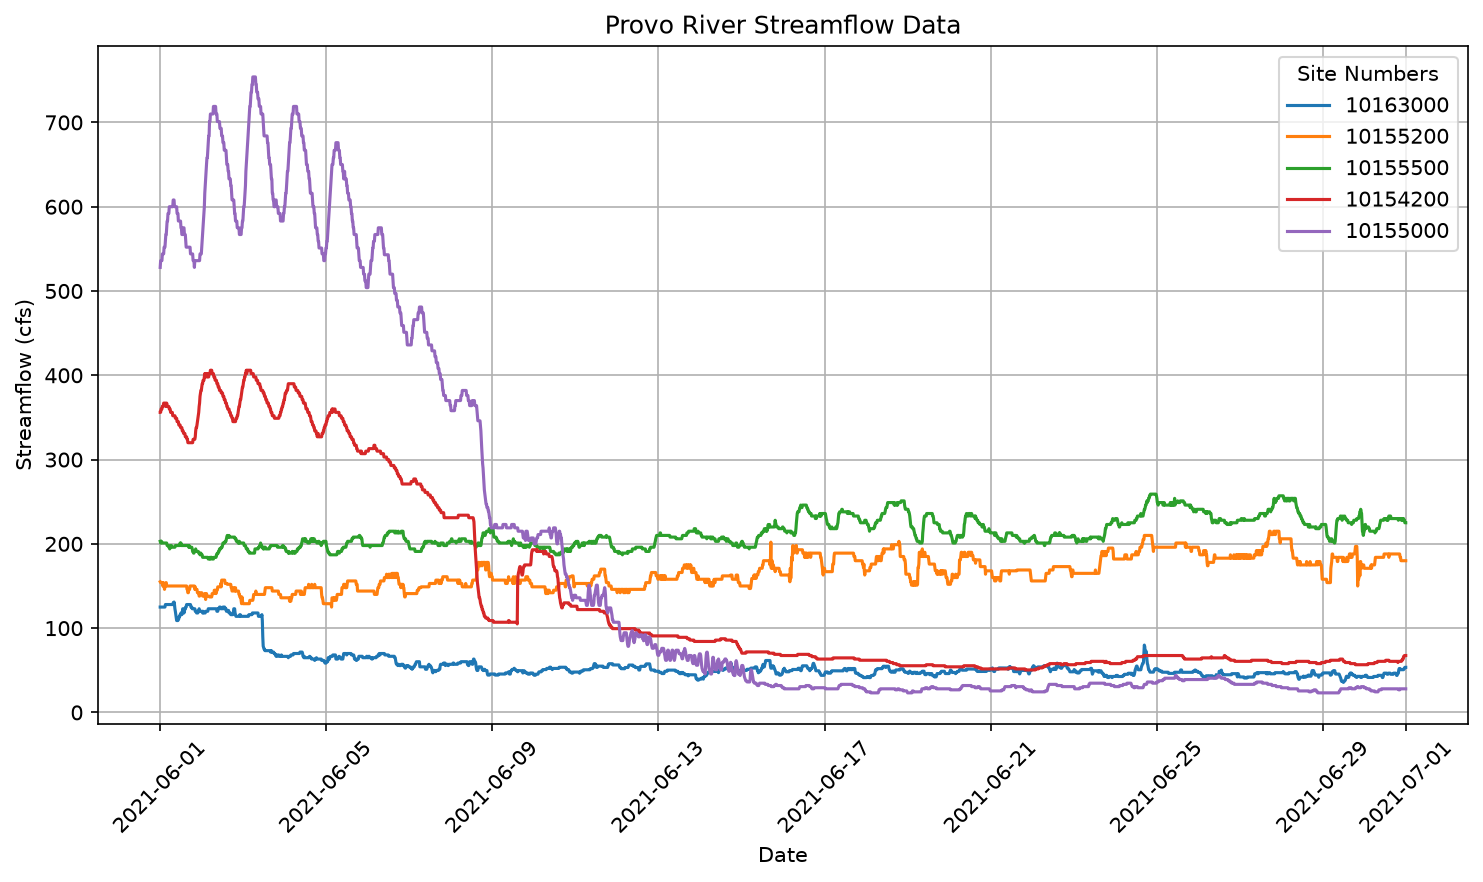
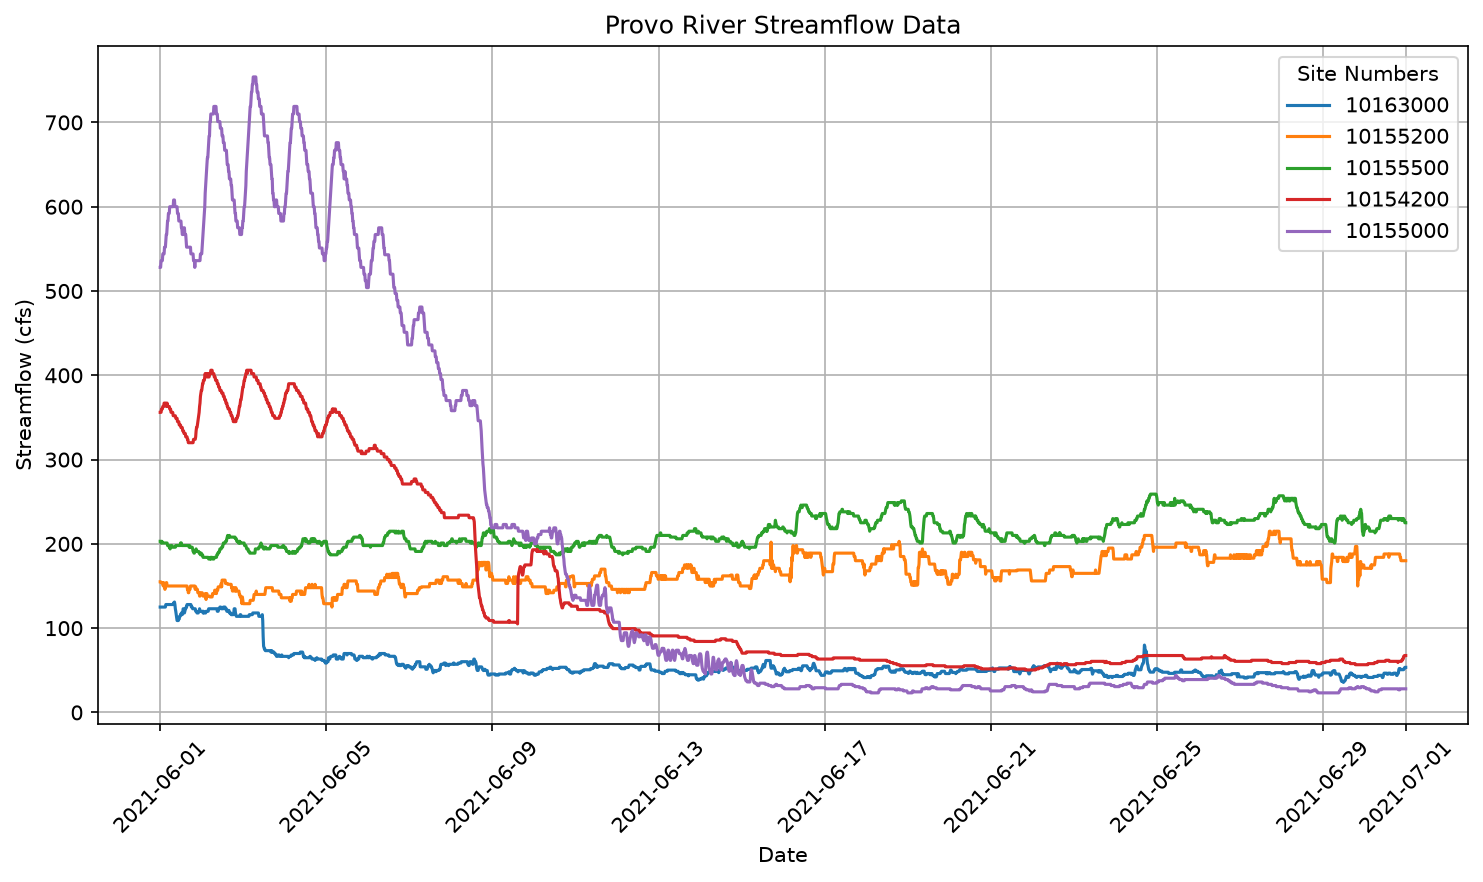
Add summary report

diff --git a/streamflow.py b/streamflow.py
@@ -1,4 +1,5 @@
 # -*- coding: utf-8 -*-
+import csv
 import numpy as np
 import matplotlib.pyplot as plt
 
@@ -12,8 +13,8 @@ def load_streamflow(filename):
         skip_header=1
     )
 
-    dates = streamflow_data[1:, 0].astype("datetime64")
-    flows = streamflow_data[1:, 1:].astype(float)
+    dates = streamflow_data[:, 0].astype("datetime64")
+    flows = streamflow_data[:, 1:].astype(float)
     return dates, flows
 
 
@@ -34,8 +35,39 @@ def plot_streamflow(dates, flows, sites):
     plt.show()
 
 
+def summarize(dates, flows, sites):
+    """Print and save the maximum, minimum, and average flow for each gauge."""
+    header = (
+        f"{'Gauge':<12}{'Max (cfs)':>10}   {'Date of max':<16} "
+        f"{'Min (cfs)':>10} {'Avg (cfs)':>10}"
+    )
+    print(header)
+
+    rows = []
+    for column, site in enumerate(sites):
+        gauge_flows = flows[:, column]
+        max_index = np.argmax(gauge_flows)
+        date_of_max = str(dates[max_index])
+        date_of_max = date_of_max.replace("T", " ")[:16]
+        maximum = np.max(gauge_flows)
+        minimum = np.min(gauge_flows)
+        average = np.mean(gauge_flows)
+
+        print(
+            f"{site:<12}{maximum:>10.1f}   {date_of_max:<16} "
+            f"{minimum:>10.1f} {average:>10.1f}"
+        )
+        rows.append((site, f"{maximum:.1f}", date_of_max, f"{minimum:.1f}", f"{average:.1f}"))
+
+    with open("streamflow_summary.csv", "w", newline="", encoding="utf-8") as summary_file:
+        writer = csv.writer(summary_file)
+        writer.writerow(["Gauge", "Max (cfs)", "Date of max", "Min (cfs)", "Avg (cfs)"])
+        writer.writerows(rows)
+
+
 
 # Main program
 sites = ["10163000", "10155200", "10155500", "10154200", "10155000"]
 dates, flows = load_streamflow("June-2021-Provo-River-Streamflow-Rates.csv")
 plot_streamflow(dates, flows, sites)
+summarize(dates, flows, sites)
